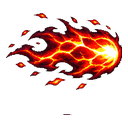
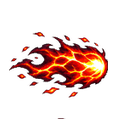
test(arte): contratos de FX/icones com os 4 elementos do lote 5 (290)
fxFacingTable regenerada, elementVisual/elementDominante regerados, contagens 286->290, orb da furia recentrado.

diff --git a/src/utils/elementVisual.data.ts b/src/utils/elementVisual.data.ts
@@ -108,6 +108,7 @@ export const ELEMENT_VISUAL: Readonly<Record<string, readonly [number, number, n
   eter: [44.8, 27.4, -49.1, 0.3],
   exoesqueleto: [42.9, 15.6, 26.8, 0.543],
   fada: [58.7, 43.8, -21.4, 0.412],
+  fantasma: [59.4, -11.7, 5.1, 0.352],
   farfalhar: [55.8, -39.3, 35.6, 0.41],
   farol: [61.0, 1.0, 33.2, 0.302],
   feerie: [46.0, 49.6, -44.8, 0.448],
@@ -134,6 +135,7 @@ export const ELEMENT_VISUAL: Readonly<Record<string, readonly [number, number, n
   fuligem: [33.4, 20.0, 21.0, 0.452],
   fungo: [54.5, 6.4, 12.7, 0.47],
   furacao: [59.7, -3.0, -0.9, 0.525],
+  furia: [41.5, 39.3, 43.3, 0.325],
   galvanismo: [50.9, -10.8, -11.8, 0.354],
   geiser: [56.3, 2.6, 18.5, 0.521],
   gelo: [66.8, -10.8, -24.4, 0.37],
@@ -154,7 +156,7 @@ export const ELEMENT_VISUAL: Readonly<Record<string, readonly [number, number, n
   impeto: [61.8, -7.3, 15.7, 0.422],
   implosao: [37.5, 6.4, -14.5, 0.355],
   incendio: [64.5, 20.8, 26.8, 0.45],
-  industrial: [42.4, 17.2, 24.0, 0.33],
+  industrial: [41.0, 30.1, 34.9, 0.273],
   instante: [64.6, -5.8, 8.6, 0.238],
   jardim_encantado: [71.6, 6.7, 19.0, 0.463],
   jardim_eterno: [42.6, 13.6, 34.6, 0.45],
@@ -174,7 +176,7 @@ export const ELEMENT_VISUAL: Readonly<Record<string, readonly [number, number, n
   maestria: [42.5, 17.9, 37.0, 0.328],
   magnetar: [30.1, 21.6, -41.0, 0.327],
   magnetismo: [53.4, 9.3, 28.2, 0.294],
-  maldicao: [39.2, 28.2, 14.5, 0.386],
+  maldicao: [25.7, 41.3, -15.4, 0.34],
   mangue: [38.8, -17.2, 9.5, 0.487],
   marcial: [45.2, 0.5, -11.2, 0.375],
   mare: [40.7, 10.3, -39.1, 0.38],
@@ -187,6 +189,7 @@ export const ELEMENT_VISUAL: Readonly<Record<string, readonly [number, number, n
   mineracao: [48.2, 15.0, 26.5, 0.476],
   monsoes: [41.7, -14.1, 1.9, 0.405],
   morte: [59.4, -5.0, 11.5, 0.353],
+  morto_vivo: [49.8, -0.4, 12.2, 0.405],
   murcha: [36.8, 14.0, 30.5, 0.275],
   murmurio: [44.2, 0.2, -9.0, 0.449],
   mutacao: [38.2, -2.0, 7.9, 0.322],
@@ -240,6 +243,7 @@ export const ELEMENT_VISUAL: Readonly<Record<string, readonly [number, number, n
   ruina: [23.6, 42.1, 6.4, 0.291],
   runa: [60.2, -6.6, -6.2, 0.369],
   sabbat: [35.6, 11.1, 21.5, 0.46],
+  sangue: [29.8, 41.9, 20.9, 0.312],
   santidade: [61.9, -16.2, 36.9, 0.398],
   seiva: [52.2, 15.0, 51.4, 0.386],
   selva: [45.6, -20.4, 12.8, 0.471],

diff --git a/src/utils/elementDominante.data.ts b/src/utils/elementDominante.data.ts
@@ -108,6 +108,7 @@ export const ELEMENT_DOMINANTE: Readonly<Record<string, readonly [number, number
   eter: [73.1, 7.7, -32.6],
   exoesqueleto: [40.3, 32.4, 40.1],
   fada: [62.0, 63.0, -30.5],
+  fantasma: [86.6, -10.7, 10.6],
   farfalhar: [60.4, -51.6, 51.6],
   farol: [82.9, 3.6, 49.7],
   feerie: [38.7, 61.9, -69.6],
@@ -134,6 +135,7 @@ export const ELEMENT_DOMINANTE: Readonly<Record<string, readonly [number, number
   fuligem: [61.0, 42.0, 62.1],
   fungo: [28.7, 19.1, -16.1],
   furacao: [55.1, -0.5, -20.3],
+  furia: [48.0, 57.2, 58.1],
   galvanismo: [19.4, -2.5, -15.5],
   geiser: [62.2, 22.9, 42.7],
   gelo: [85.2, -17.0, -16.1],
@@ -187,6 +189,7 @@ export const ELEMENT_DOMINANTE: Readonly<Record<string, readonly [number, number
   mineracao: [33.2, 25.9, 31.5],
   monsoes: [30.4, -14.9, -9.7],
   morte: [82.5, -3.1, 12.9],
+  morto_vivo: [74.2, -8.7, 24.8],
   murcha: [17.5, 11.8, 17.1],
   murmurio: [14.8, 11.0, -16.2],
   mutacao: [49.9, -26.6, 32.5],
@@ -240,6 +243,7 @@ export const ELEMENT_DOMINANTE: Readonly<Record<string, readonly [number, number
   ruina: [11.2, 28.4, -5.9],
   runa: [25.5, -1.6, -25.7],
   sabbat: [21.8, 10.4, 10.0],
+  sangue: [23.4, 43.6, 20.6],
   santidade: [65.3, -30.7, 36.1],
   seiva: [68.8, 23.8, 70.2],
   selva: [38.9, -41.3, 31.5],

diff --git a/src/utils/fxFacingTable.ts b/src/utils/fxFacingTable.ts
@@ -109,6 +109,7 @@ export const FX_FACING_TABLE: Readonly<Record<string, string>> = {
   eter: 'RRS',
   exoesqueleto: 'RLL',
   fada: 'RLS',
+  fantasma: 'RLS',
   farfalhar: 'RLS',
   farol: 'RLL',
   feerie: 'RLS',
@@ -135,6 +136,7 @@ export const FX_FACING_TABLE: Readonly<Record<string, string>> = {
   fuligem: 'RLS',
   fungo: 'RLL',
   furacao: 'RLS',
+  furia: 'RLS',
   galvanismo: 'LLS',
   geiser: 'RLL',
   gelo: 'RLS',
@@ -188,6 +190,7 @@ export const FX_FACING_TABLE: Readonly<Record<string, string>> = {
   mineracao: 'RLS',
   monsoes: 'RLL',
   morte: 'RRS',
+  'morto_vivo': 'RLS',
   murcha: 'RRS',
   murmurio: 'RLL',
   mutacao: 'RLS',
@@ -242,6 +245,7 @@ export const FX_FACING_TABLE: Readonly<Record<string, string>> = {
   ruina: 'RLL',
   runa: 'RLS',
   sabbat: 'RRS',
+  sangue: 'RLS',
   santidade: 'RLS',
   seiva: 'RLS',
   selva: 'RRS',

diff --git a/src/utils/combatArt.test.ts b/src/utils/combatArt.test.ts
@@ -38,8 +38,8 @@ describe('combatArt — cenário, escudo e plataforma por elemento (rodada 2, 04
     expect(combatGlowPair('fogo')).toEqual([c('fogo'), c('fogo')]);
     expect(combatGlowPair('vapor')).toEqual([c('fogo'), c('agua')]);
   });
-  it('ícones de elemento: os 17 base passaram a existir (286 = 280 + 6 curados do lote 4)', () => {
-    expect(elementIconIds().length).toBe(286);
+  it('ícones de elemento: os 17 base passaram a existir (290 = 280 + 6 curados do lote 4 + 4 do lote 5)', () => {
+    expect(elementIconIds().length).toBe(290);
     for (const el of VISUAL_ELEMENTS) expect(elementIcon(el), el).toBeDefined();
   });
 });

diff --git a/src/utils/fxFacing.contract.test.ts b/src/utils/fxFacing.contract.test.ts
@@ -16,8 +16,8 @@ const files = listFxFiles() as Record<string, Record<string, string>>;
 const ids = Object.keys(files).sort();
 
 describe('a tabela de direção da arte é a MEDIDA dos PNG (nunca escrita à mão)', () => {
-  it('cobre todo elemento com arte de FX (286 + pesadelo), nem um a mais', () => {
-    expect(ids.length).toBe(287);
+  it('cobre todo elemento com arte de FX (290 + pesadelo), nem um a mais', () => {
+    expect(ids.length).toBe(291);
     expect(Object.keys(FX_FACING_TABLE).sort()).toEqual(ids);
   });
 

diff --git a/src/utils/combatFx.test.ts b/src/utils/combatFx.test.ts
@@ -22,8 +22,8 @@ describe('inventário da arte de skill por elemento (a base da cena de combate)'
     }
   });
 
-  it('o glob achou a arte inteira: 286 elementos × 6 estados', () => {
-    expect(ATTACK_FX_COUNT).toBe(286 * 6);
+  it('o glob achou a arte inteira: 290 elementos × 6 estados', () => {
+    expect(ATTACK_FX_COUNT).toBe(290 * 6);
   });
 
   it('id sem arte cai no neutro; planta/industrial têm arte própria (sem alias)', () => {
